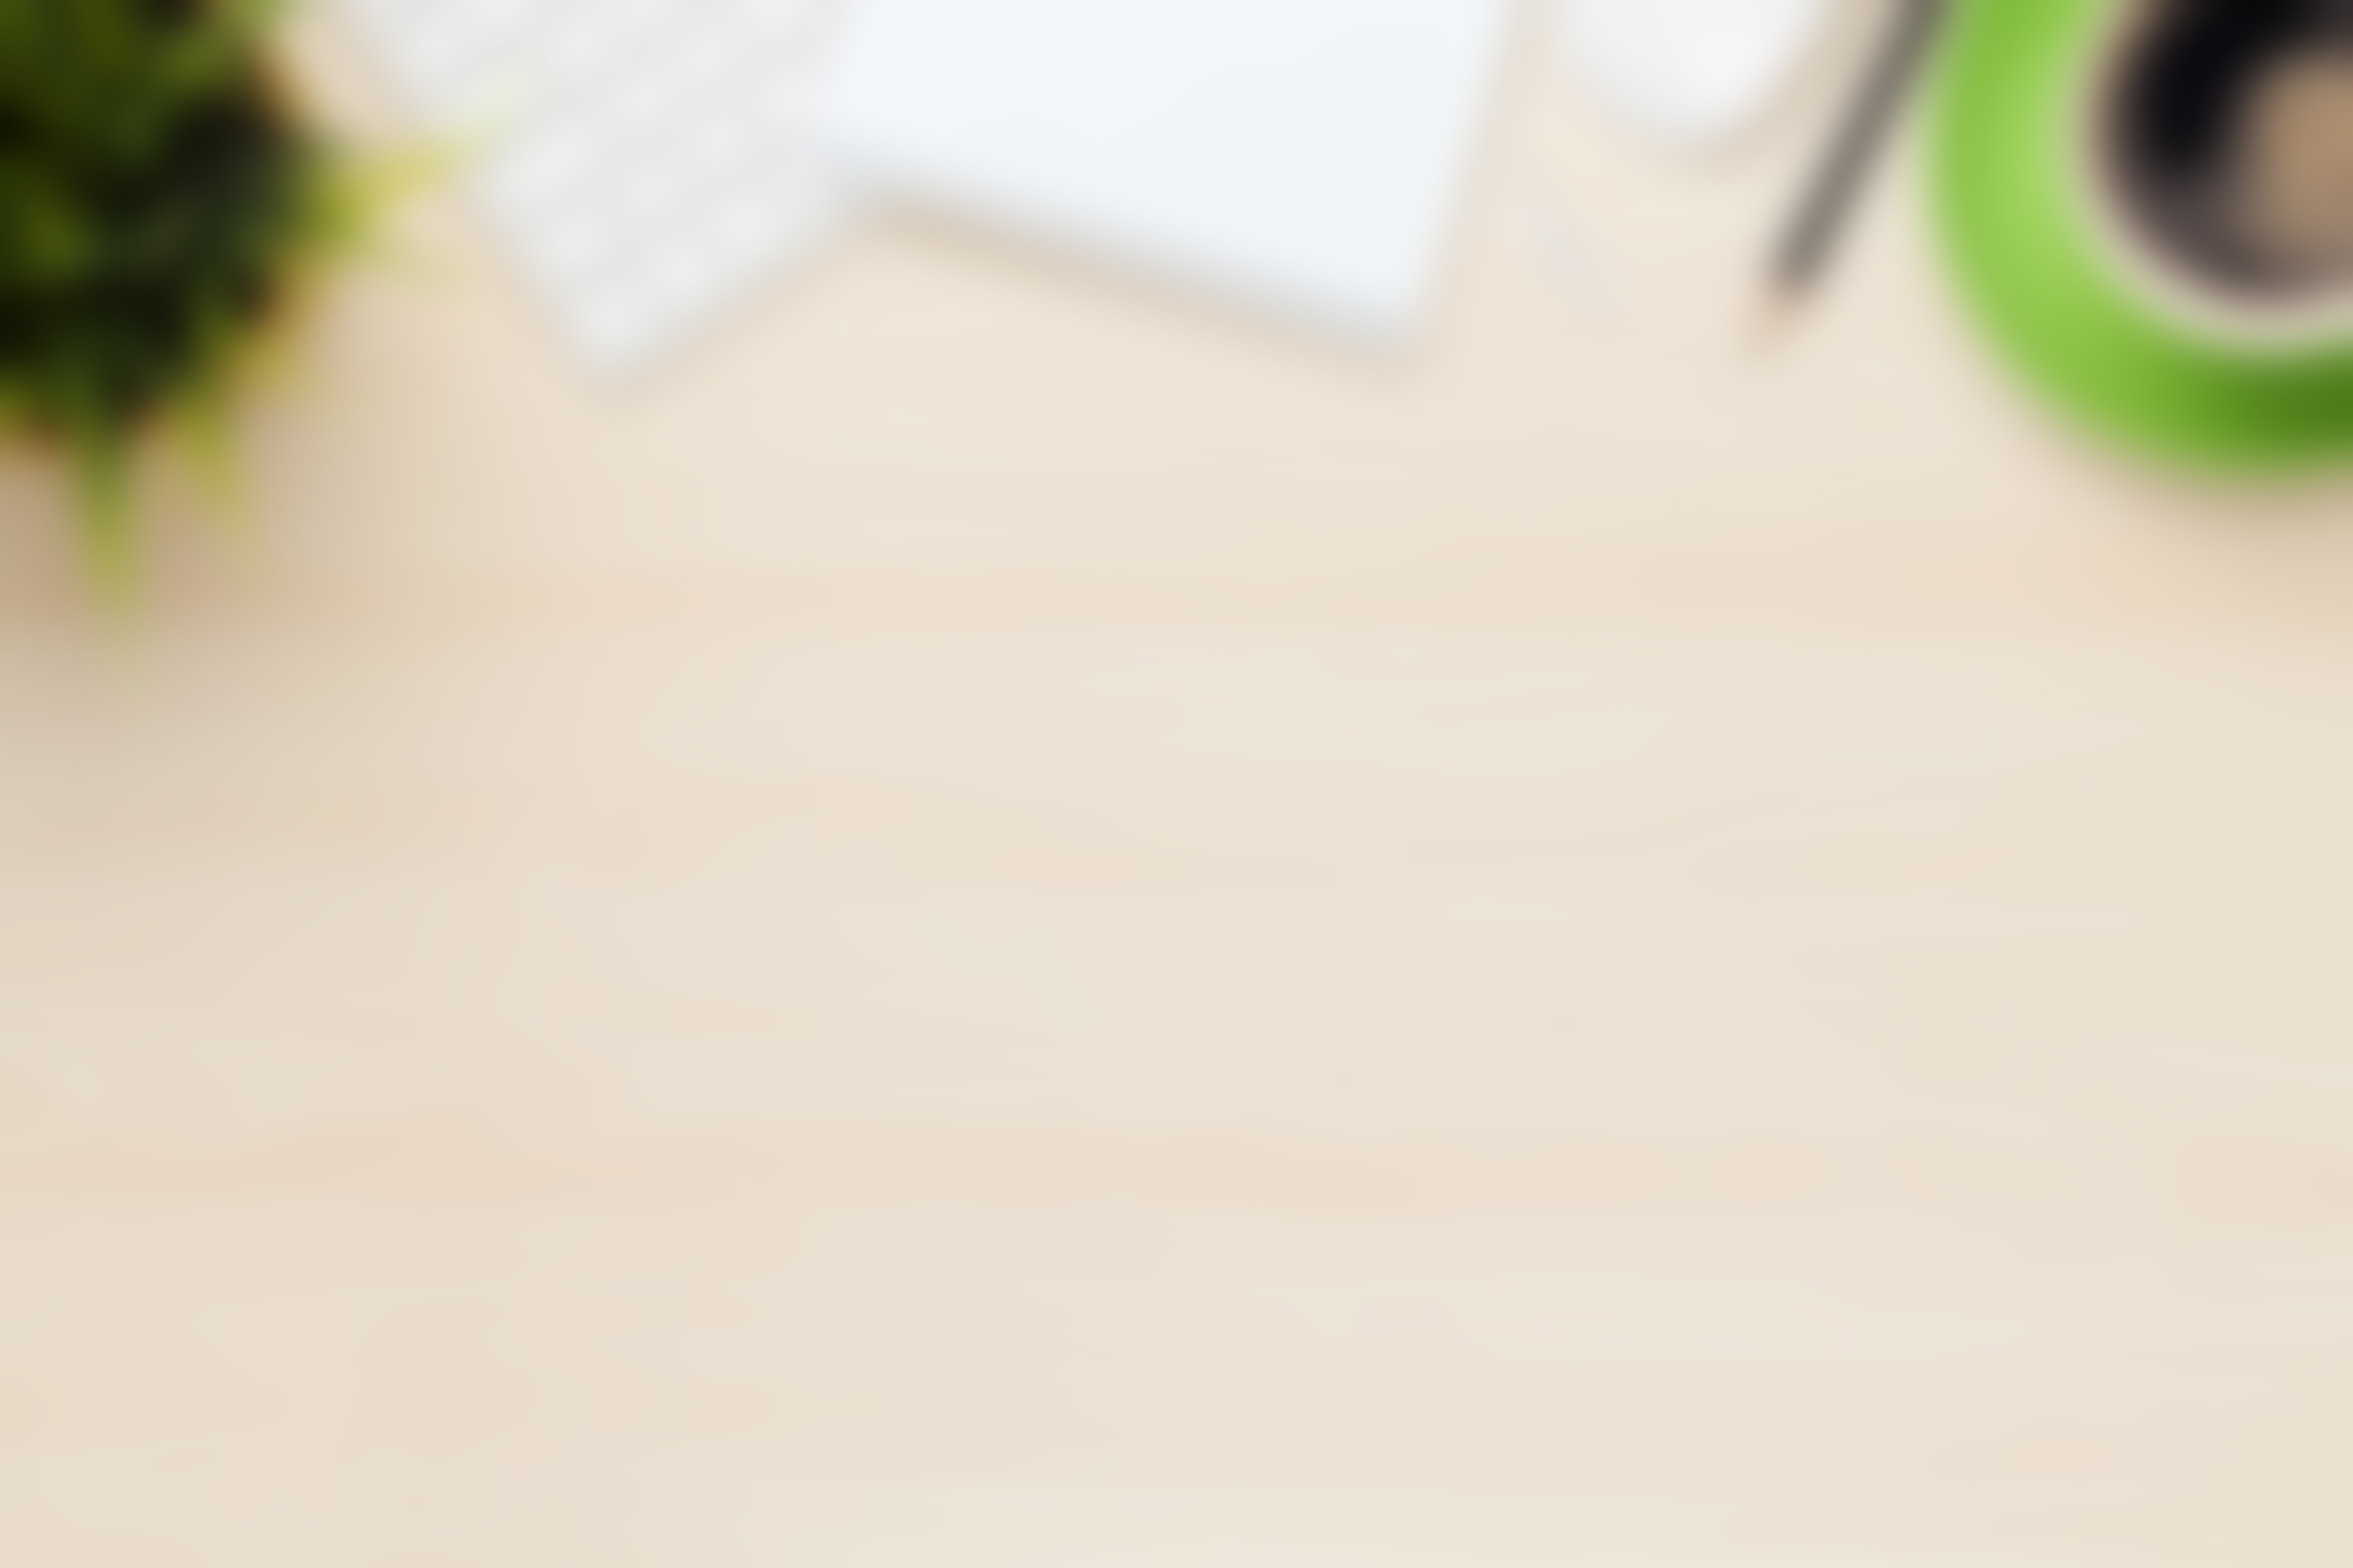
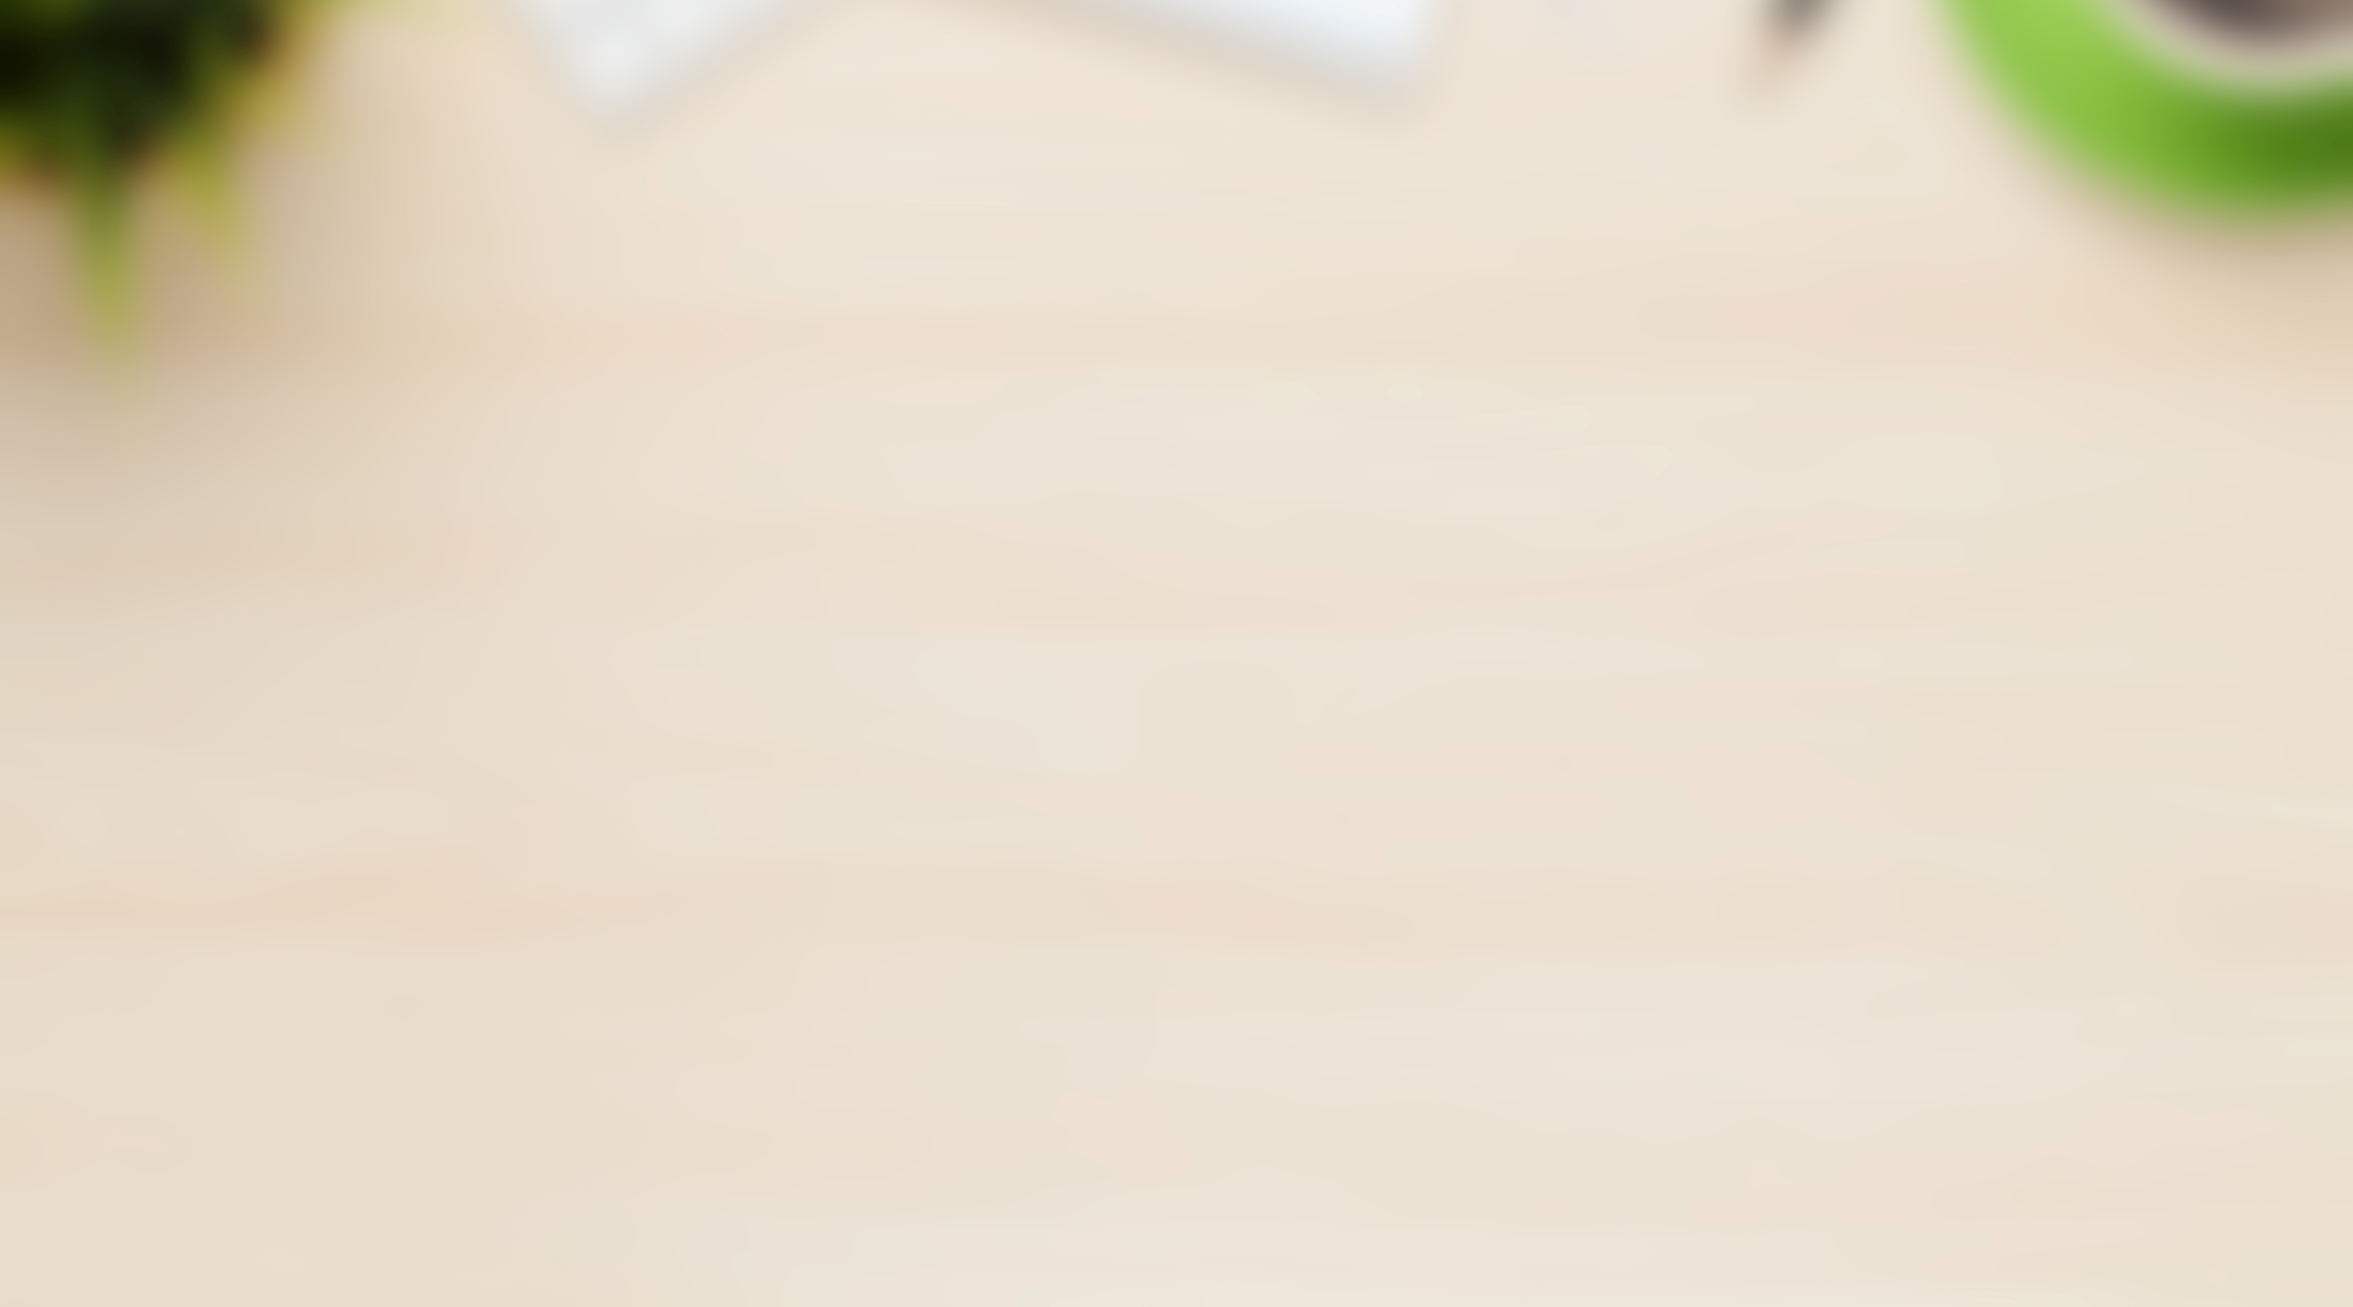
dashboard

Changed region(s): [[0.0, 0.0, 1.0, 0.4351]]

diff --git a/dashboard-stu.html b/dashboard-stu.html
@@ -32,8 +32,9 @@
             <ul class="nav navbar-nav navbar-right">
                 <li><a href="#">Dashboard</a></li>
                 <li><a href="#">Settings</a></li>
-                <li><a href="#">Profile</a></li>
-                <li><a href="#">Help</a></li>
+                <li><a href="#">About</a></li>
+                <li><a href="#">Contact</a></li>
+                <li><a href="#">FAQ</a></li>
             </ul>
             <form class="navbar-form navbar-right">
                 <input type="text" class="form-control" placeholder="Search...">

diff --git a/css/dashboard.css b/css/dashboard.css
@@ -6,7 +6,7 @@
 body {
   padding-top: 50px;
 
-    background-image: url(../images/bg.jpg);
+    background-image: url(../images/bg2.jpg);
     background-size: cover;
     background-attachment: fixed;
     background-repeat: no-repeat;
